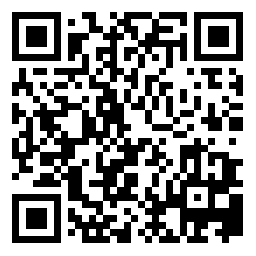
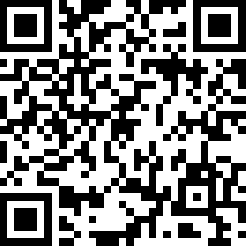
update pgp key

diff --git a/README.md b/README.md
@@ -9,5 +9,6 @@
 [![職務経歴書](https://img.shields.io/badge/resume-%E8%81%B7%E5%8B%99%E7%B5%8C%E6%AD%B4%E6%9B%B8-blue)](https://resume.pandanoir.net)
 
 ## PGP Key
-16AC AADE (or get key on keys.openpgp.org)
+307B E088 C56B 9F0D (or get key on [keys.openpgp.org](https://keys.openpgp.org/search?q=307BE088C56B9F0D))
+
 ![](./pgp-key-qr.png)
